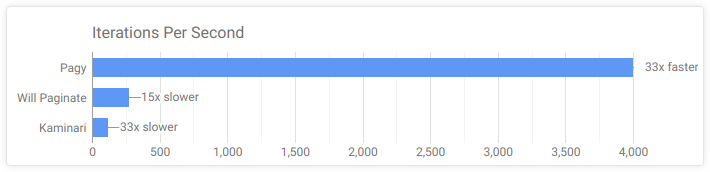
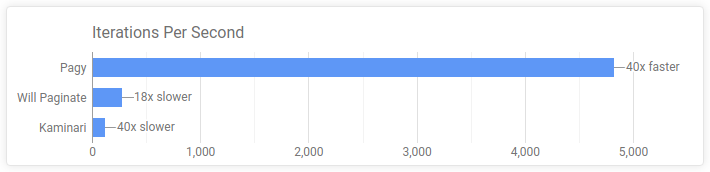
updated performance assets for v3

diff --git a/README.md b/README.md
@@ -14,11 +14,12 @@ Pagy is the ultimate pagination gem that outperforms the others in each and ever
 
 ## New in 3.0+
 
-- Internal refactoring of nav helpers for improved performance and more intuitive API
+- Pagy 3.0+ is considerably faster, lighter and more efficient than 2.0+ on modern environments (see the charts below)
+- The javascript nav helpers have been refactored for improved performance and more intuitive API
+- The i18n has been refactored, the dictionary files are simpler and 100% compliant with the i18n gem
 - Added [Maximizing Performance](https://ddnexus.github.io/pagy/how-to#maximizing-performance) docs as a practical guide to choose the best options for your requirements and environment
-- Pagy 3.0+ is even faster and lighter than 2.0+ on modern environments (see the charts below)
 
-**Notice**: Updating from 2.0+ to 3.0+ requires only a few renaming. Check the [CHANGELOG](https://github.com/ddnexus/pagy/blob/master/CHANGELOG.md) for details.
+**Notice**: Updating from 2.0+ to 3.0+ requires a some search and replace and a little reorganization of your custom i18n dictionaries. Check the [CHANGELOG](https://github.com/ddnexus/pagy/blob/master/CHANGELOG.md) for details.
 
 **Suggestion**: If you are using any `pagy*_nav` helper, [consider to switch](https://ddnexus.github.io/pagy/how-to#consider-the-nav_js) to `pagy*_nav_js`, which gives you the same output with a substancial performance boost.
 
@@ -28,23 +29,23 @@ The best way to quickly get an idea about Pagy is comparing it to the other well
 
 The values shown in the charts below have been recorded while each gem was producing the exact same output in the exact same environment. _(see the [Detailed Gems Comparison](http://ddnexus.github.io/pagination-comparison/gems.html))_
 
-### ~ 33x Faster!
+### ~ 40x Faster!
 
 [![IPS Chart](docs/assets/images/ips-chart.png)](https://ddnexus.github.io/pagination-comparison/gems.html#ips-benchmark)
 
-### ~ 26x Lighter!
+### ~ 36x Lighter!
 
 [![Memory Chart](docs/assets/images/memory-chart.png)](https://ddnexus.github.io/pagination-comparison/gems.html#memory-profile)
 
-### ~ 25x Simpler!
+### ~ 35x Simpler!
 
 [![Objects Chart](docs/assets/images/objects-chart.png)](https://ddnexus.github.io/pagination-comparison/gems.html#memory-profile)
 
-### ~ 850x More Efficient!
+### ~ 1,410x More Efficient!
 
 [![Resource Consumption Chart](docs/assets/images/resource-consumption-chart.png)](https://ddnexus.github.io/pagination-comparison/gems.html#efficiency-ratio)
 
-_Each dot in the chart represents the resources that Pagy consumes for one full rendering. The other gems consume hundreds of times as much for the same rendering._
+_Each dot in the visualization above represents the resources that Pagy consumes for one full rendering. The other gems consume hundreds of times as much for the same rendering._
 
 _The [IPS/Kb ratio](http://ddnexus.github.io/pagination-comparison/gems.html#efficiency-ratio) is calculated out of speed (IPS) and Memory (Kb): it shows how well each gem uses each Kb of memory it allocates/consumes._
 
